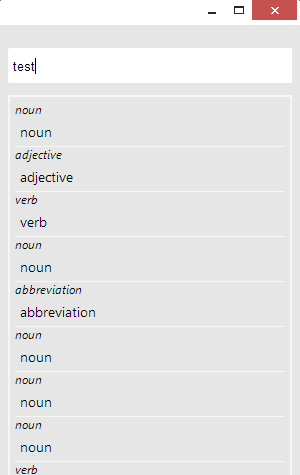
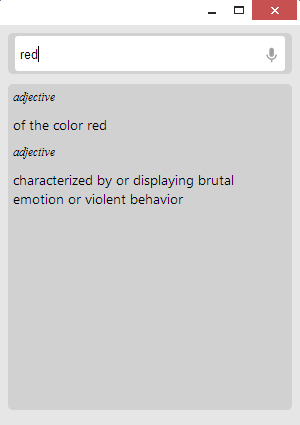
Polished Description, and minor details
Still has one major bug I need to fix before I am ready to share. But
most everything is good.

Changed region(s): [[0.0, 0.0, 1.0, 0.9482], [0.03, 0.9788, 0.12, 1.0]]

diff --git a/myScript.js b/myScript.js
@@ -56,6 +56,15 @@ function parseResponse(response)
         
         for (var i = 0; i < deffs.length; i++) {
             var actualDef = deffs[i];
+           
+            /* NEED to find a way to parse tags that could be there
+            var totalDef = deffs[i].getElementsByTagName("dt");
+            
+            for (var i = 0; i < totalDef.length; i++)
+            {
+                
+            }
+            */     
             
             var strWithColon = actualDef.getElementsByTagName("dt")[0].childNodes[0].nodeValue;
             var strWithoutColon = strWithColon.substring(1,strWithColon.length);

diff --git a/background.js b/background.js
@@ -2,7 +2,7 @@ chrome.app.runtime.onLaunched.addListener(function() {
   chrome.app.window.create('dictionary.html', {
     bounds: {
       width: 300,
-      height: 450
+      height: 400
     },
     minWidth: 200,
     minHeight: 200,
